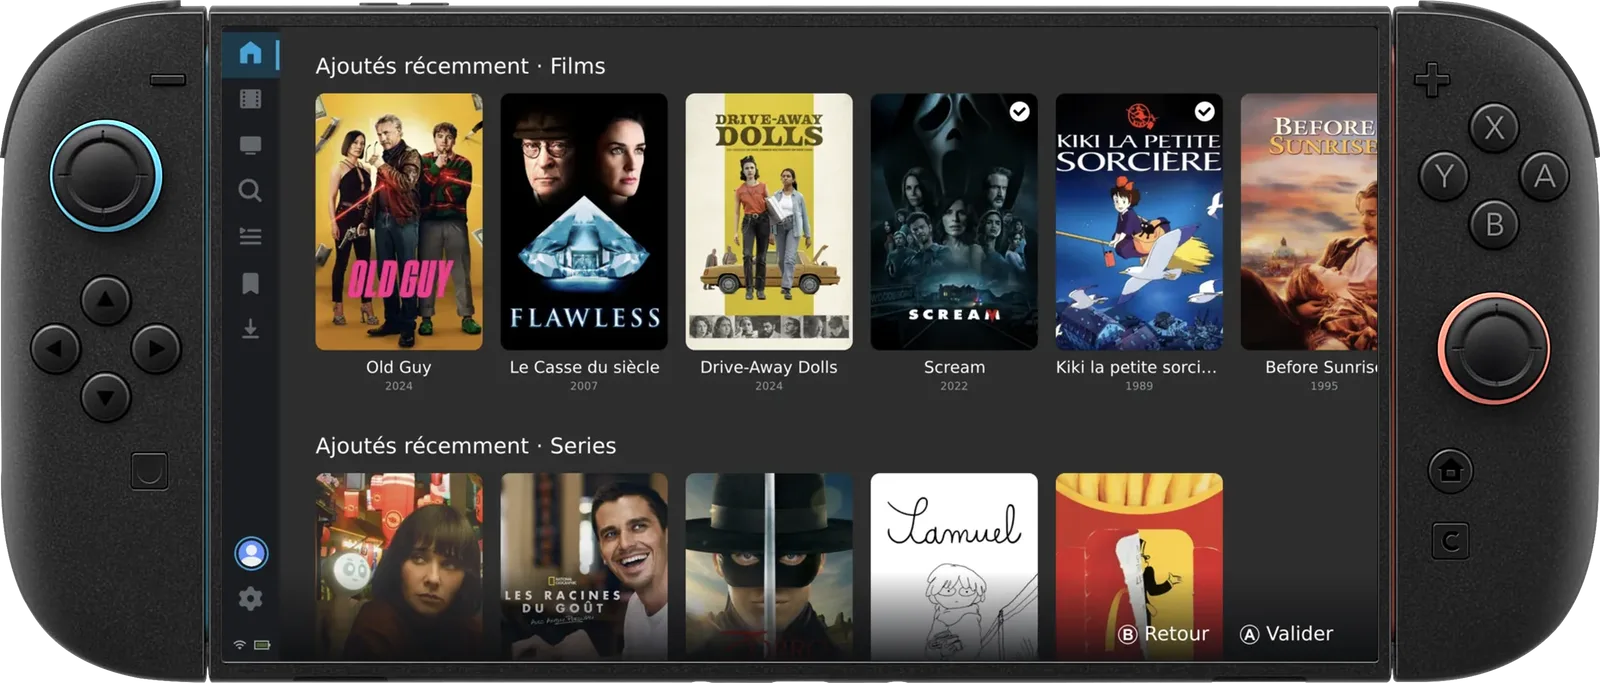
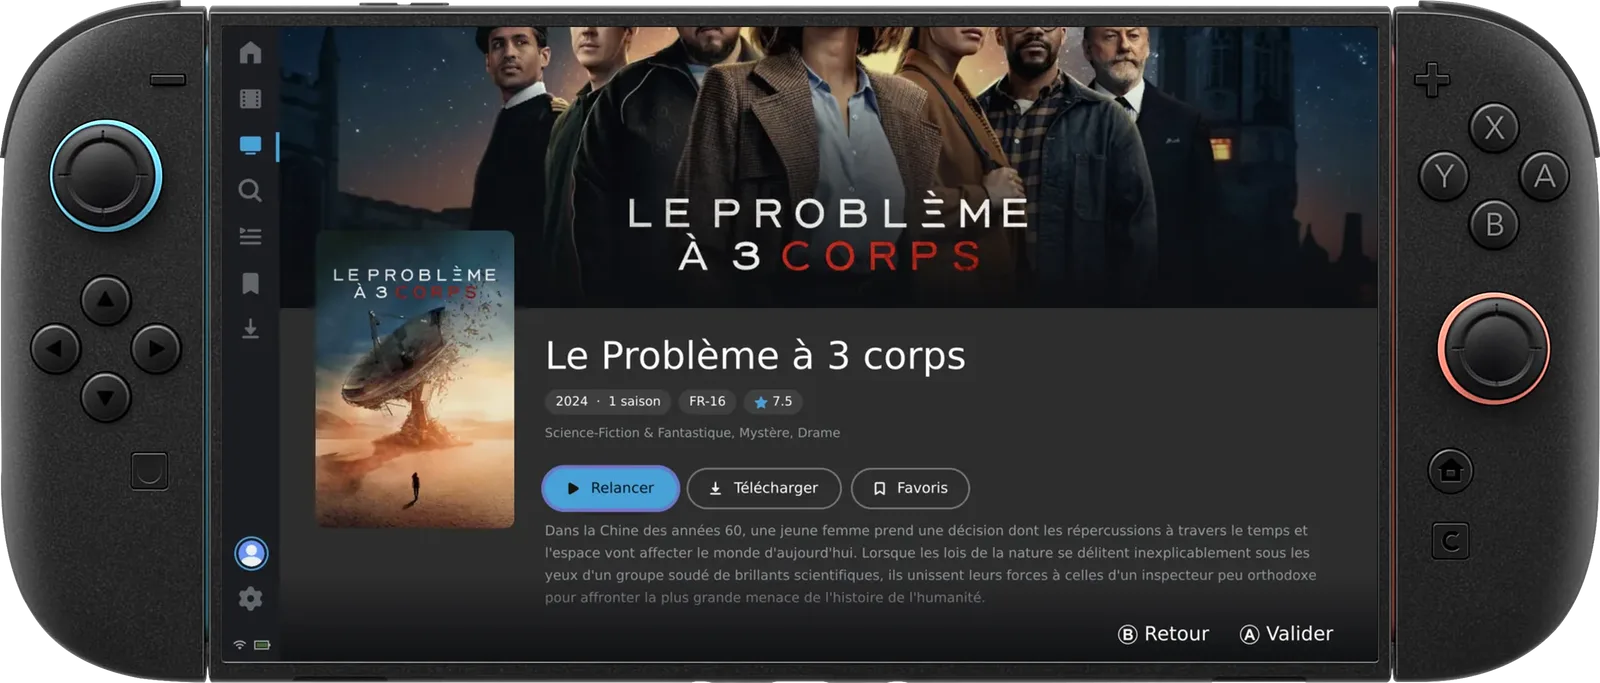
fix(site): give the Switch 2 card its own screen and usage tagline

diff --git a/site/index.html b/site/index.html
@@ -216,8 +216,8 @@
           </article>
 
           <article class="device reveal" data-b="switch2" style="--i:1">
-            <div class="device-shot"><img src="assets/img/device-switch2.webp" alt="GMCA showing a Jellyfin home screen on a Nintendo Switch 2" width="1600" height="683" loading="lazy"></div>
-            <p class="tagline"><span class="t1">1080p</span> · <span class="t2">handheld</span></p>
+            <div class="device-shot"><img src="assets/img/device-switch2.webp" alt="GMCA showing a Jellyfin series page on a Nintendo Switch 2" width="1600" height="683" loading="lazy"></div>
+            <p class="tagline"><span class="t1">Handheld</span> · <span class="t2">docked</span></p>
             <h3>Nintendo Switch 2</h3>
             <p>Nintendo's newest console gets the same media center. A native build for ounce-hbmenu on kaiHEN, on its bigger 1080p screen.</p>
             <div class="meta"><span>Homebrew</span><span>kaiHEN</span><span>Joy-Con 2</span></div>
